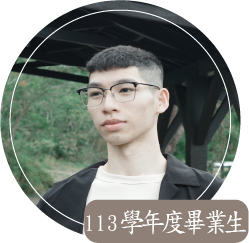
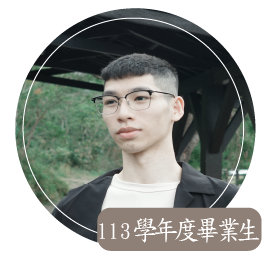
0703 images update-1

diff --git a/member_graduate.html b/member_graduate.html
@@ -88,6 +88,21 @@
 			<div class="row">
 				<div class="col-lg-12 text-center">
 					<div class="section-title">
+						<h2>實驗室113年畢業生</h2>
+						<p>第一校區人才集散地</p>
+						<div class="row">
+							<div class="col-lg-15 text-center">
+								<div id="success"></div>
+							</div>
+						</div>
+					</div>
+				</div>
+			</div>
+<!-- 實驗室112年畢業生 -->
+		<div class="container">
+			<div class="row">
+				<div class="col-lg-12 text-center">
+					<div class="section-title">
 						<h2>實驗室112年畢業生</h2>
 						<p>第一校區人才集散地</p>
 						<div class="row">
